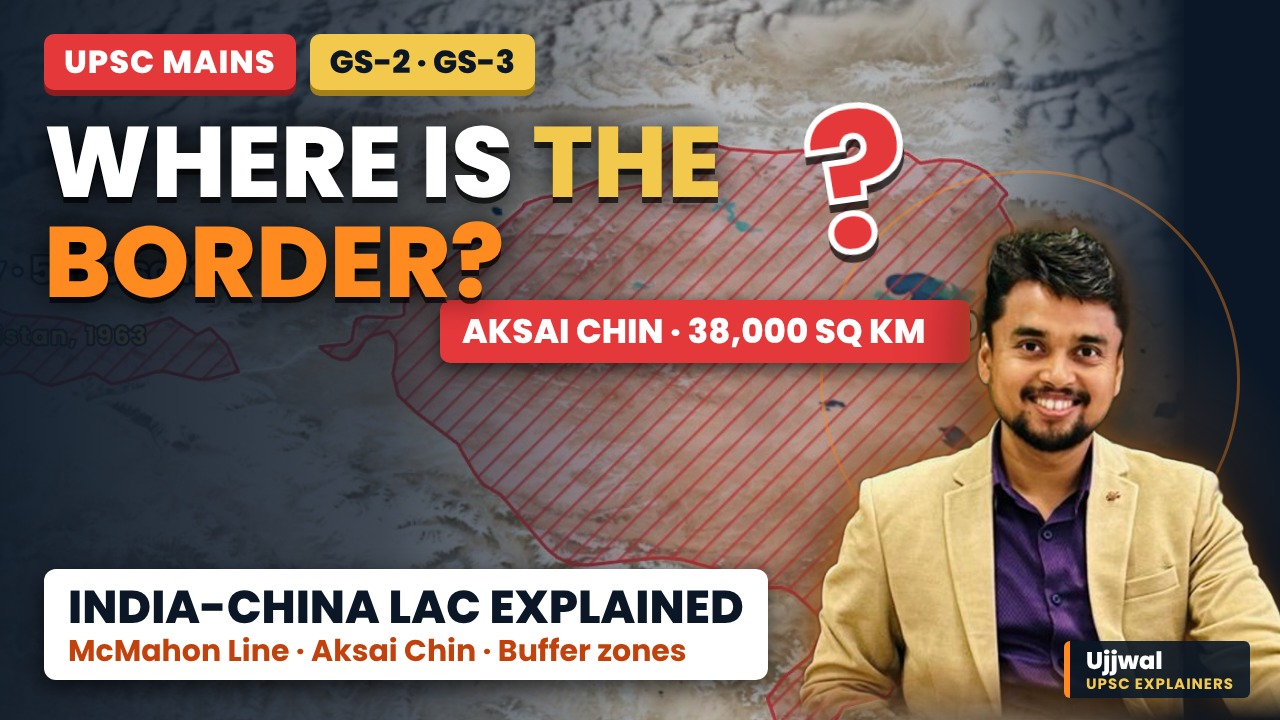
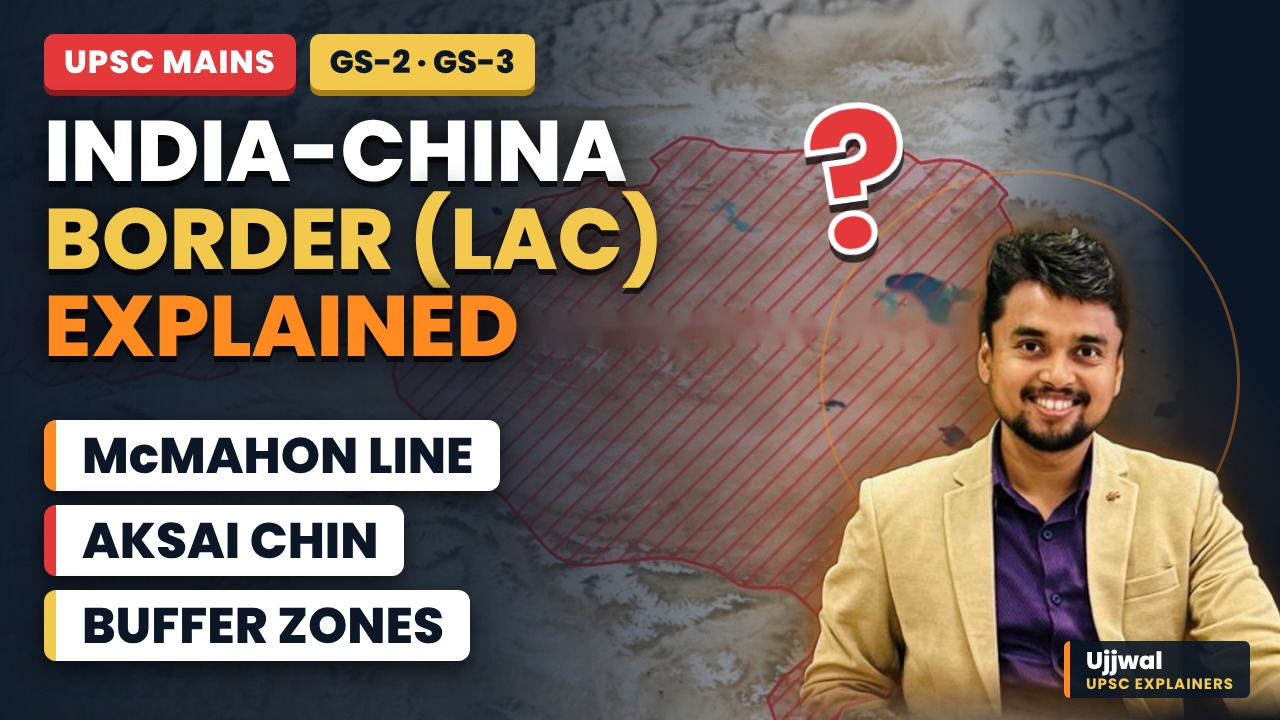
LAC thumbnail: title text, bigger type
Claude-Session: https://claude.ai/code/session_01GwsaBCq3pWmvmX83MfcuqN

diff --git a/jobs/lac-tools/thumbnail-final.html b/jobs/lac-tools/thumbnail-final.html
@@ -2,8 +2,8 @@
 @font-face{font-family:P;src:url(poppins-800.woff2);font-weight:800 900}
 @font-face{font-family:P;src:url(poppins-700.woff2);font-weight:600 700}
 *{margin:0;box-sizing:border-box}body{width:1280px;height:720px;overflow:hidden;background:#0B1726;font-family:P,sans-serif;color:#fff;position:relative}
-.bg{position:absolute;left:-400px;top:-240px;width:1584px;height:1188px;background:url(map.jpg) 0 0/1584px 1188px no-repeat}
-.shade{position:absolute;inset:0;background:linear-gradient(90deg,#0B1726f0 0%,#0B1726c0 30%,#0B172630 55%,#0B172640 75%,#0B1726d0 90%,#0B1726 93%)}
+.bg{position:absolute;left:-400px;top:-240px;width:1584px;height:1188px;background:url(map-clean.jpg) 0 0/1584px 1188px no-repeat}
+.shade{position:absolute;inset:0;background:linear-gradient(90deg,#0B1726f5 0%,#0B1726d8 38%,#0B172650 62%,#0B172640 75%,#0B1726d0 90%,#0B1726 93%)}
 .spot{position:absolute;right:-40px;bottom:-120px;width:600px;height:600px;border-radius:50%;background:radial-gradient(circle,#FF8A1F55 0%,#FF8A1F22 40%,#0B172600 70%)}
 .ring{position:absolute;right:40px;top:170px;width:420px;height:420px;border-radius:50%;border:3px solid #FF8A1F66}
 .face{position:absolute;right:-30px;bottom:0;height:500px;filter:drop-shadow(-6px 0 14px #FF8A1F88) drop-shadow(0 10px 30px #000c)}
@@ -13,14 +13,17 @@
 .badges{position:absolute;left:44px;top:34px;display:flex;gap:14px}
 .upsc{background:#E5383B;font-weight:900;font-size:32px;padding:4px 20px;border-radius:10px;letter-spacing:1px;box-shadow:0 6px 0 #8f1d1f}
 .gs{background:#F2C94C;color:#0B1726;font-weight:900;font-size:32px;padding:4px 20px;border-radius:10px;box-shadow:0 6px 0 #a3801a}
-.h{position:absolute;left:44px;top:112px;width:760px;font-weight:900;font-size:100px;line-height:1.0;text-transform:uppercase;text-shadow:0 6px 0 #000a,0 0 30px #000}
+.h{position:absolute;left:44px;top:108px;width:820px;font-weight:900;font-size:86px;line-height:1.02;text-transform:uppercase;text-shadow:0 6px 0 #000a,0 0 30px #000}
 .h b{color:#F2C94C;font-weight:900}.h i{font-style:normal;color:#FF8A1F}
 .sub{position:absolute;left:44px;bottom:40px;background:#fff;color:#0B1726;padding:12px 24px;border-radius:12px;line-height:1.15;box-shadow:0 8px 24px #000a}
 .sub .a{font-weight:900;font-size:46px;text-transform:uppercase}.sub .b{font-weight:700;font-size:30px;color:#C2410C}
 .pill{position:absolute;left:440px;top:300px;background:#E5383B;color:#fff;font-weight:800;font-size:34px;padding:6px 44px 6px 22px;border-radius:10px;box-shadow:0 6px 18px #000a;white-space:nowrap}
+.chips{position:absolute;left:44px;top:420px;display:flex;flex-direction:column;gap:14px;align-items:flex-start}
+.c{background:#fff;color:#0B1726;font-weight:900;font-size:50px;line-height:1.1;padding:8px 26px;border-radius:12px;box-shadow:0 8px 24px #000a;border-left:12px solid #FF8A1F}
+.c2{border-left-color:#E5383B}.c3{border-left-color:#F2C94C}
 </style><div class="bg"></div><div class="shade"></div><div class="spot"></div><div class="ring"></div>
-<div class="q">?</div><div class="pill">AKSAI CHIN · 38,000 SQ KM</div>
+<div class="q">?</div>
 <img class="face" src="tutor.png"><div class="plate"><div class="n">Ujjwal</div><div class="r">UPSC EXPLAINERS</div></div>
 <div class="badges"><div class="upsc">UPSC MAINS</div><div class="gs">GS-2 · GS-3</div></div>
-<div class="h">Where is <b>the</b><br><i>border?</i></div>
-<div class="sub"><div class="a">India-China LAC Explained</div><div class="b">McMahon Line · Aksai Chin · Buffer zones</div></div>
+<div class="h">India-China<br><b>Border (LAC)</b><br><i>Explained</i></div>
+<div class="chips"><div class="c c1">McMAHON LINE</div><div class="c c2">AKSAI CHIN</div><div class="c c3">BUFFER ZONES</div></div>
